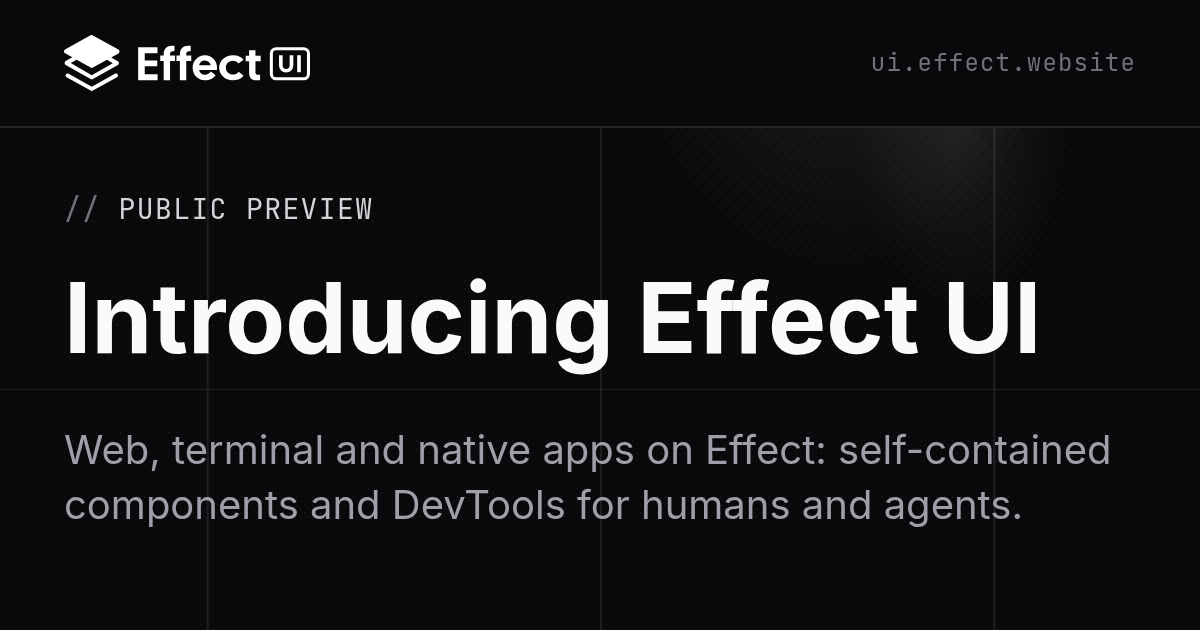
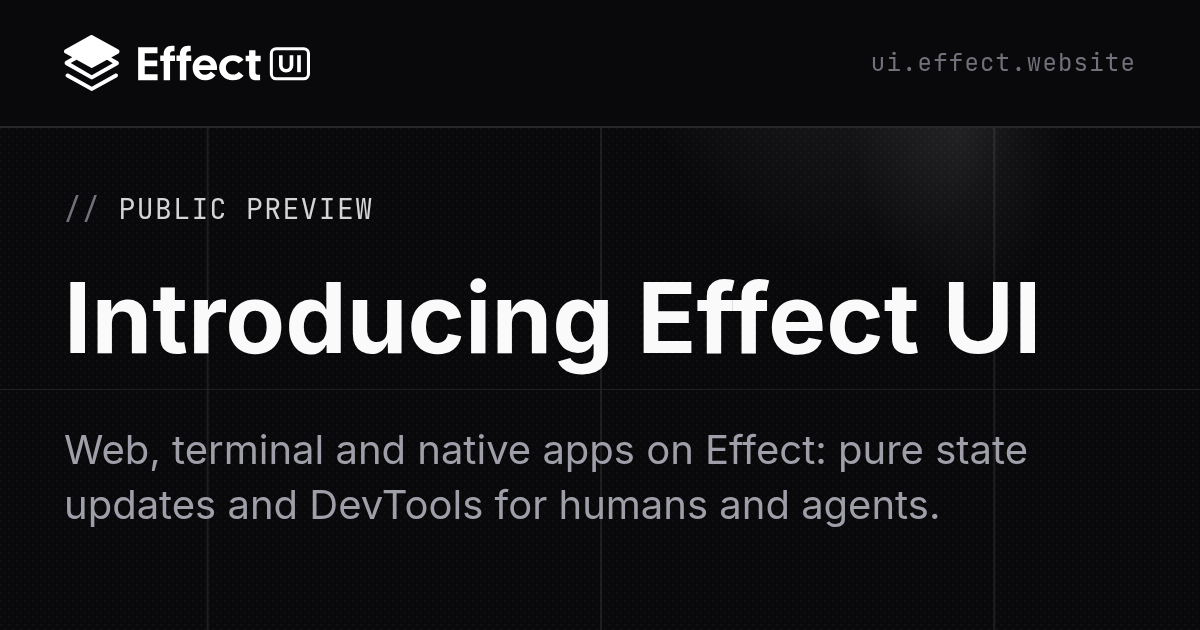
Update launch OG image copy and bust cache

Changed region(s): [[0.0617, 0.754, 0.8633, 0.8444], [0.6783, 0.6937, 0.925, 0.754]]

diff --git a/examples/launch/index.html b/examples/launch/index.html
@@ -45,13 +45,13 @@
       content="Effect UI is a frontend library for Effect: build web, terminal and native apps with Elm Architecture components and DevTools for humans and agents."
     />
     <!-- Drawn from og.html. -->
-    <meta property="og:image" content="https://ui.effect.website/og.png" />
+    <meta property="og:image" content="https://ui.effect.website/og.png?v=2" />
     <meta property="og:image:type" content="image/png" />
     <meta property="og:image:width" content="1200" />
     <meta property="og:image:height" content="630" />
     <meta
       property="og:image:alt"
-      content="Introducing Effect UI. Web, terminal and native apps on Effect: self-contained components and DevTools for humans and agents."
+      content="Introducing Effect UI. Web, terminal and native apps on Effect: pure state updates and DevTools for humans and agents."
     />
 
     <!-- X takes the title, description and image from the Open Graph

diff --git a/examples/launch/og.html b/examples/launch/og.html
@@ -162,7 +162,7 @@
       <p class="mono"><span class="subtle">//</span> Public preview</p>
       <h1>Introducing Effect UI</h1>
       <p class="lede">
-        Web, terminal and native apps on Effect: self-contained components and
+        Web, terminal and native apps on Effect: pure state updates and
         DevTools for humans and agents.
       </p>
     </div>
